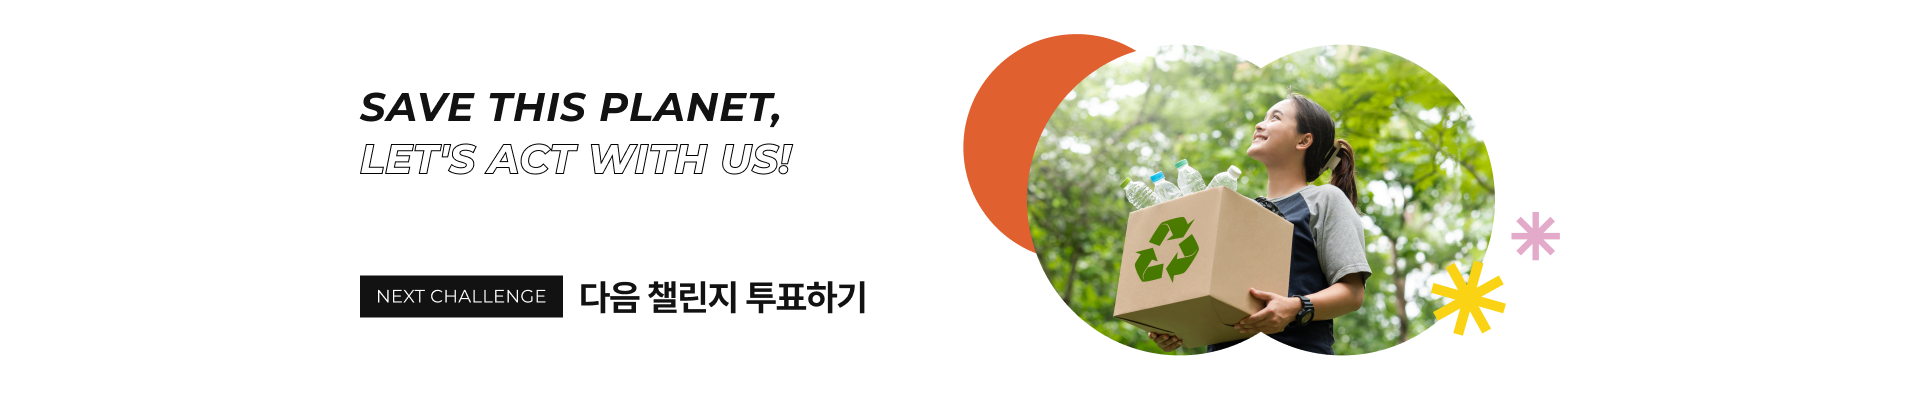
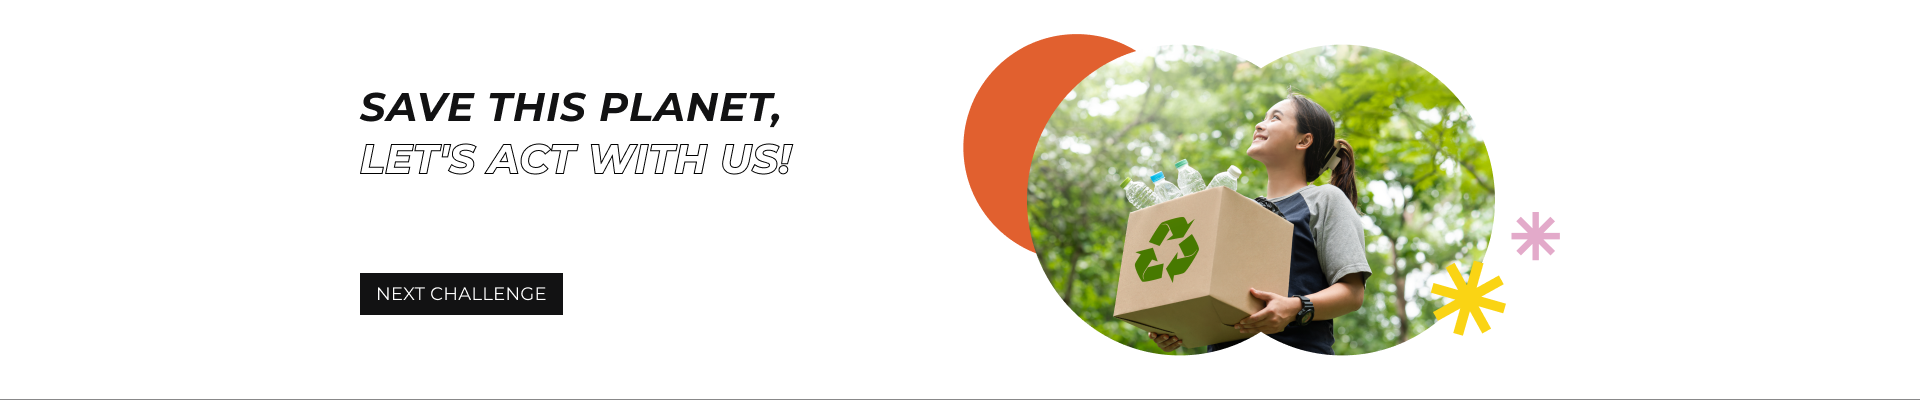
Design:'투표하기' 키워드 '제시하기'로 변경

Changed region(s): [[0.0, 0.99, 1.0, 1.0], [0.1875, 0.69, 0.4688, 0.81], [0.1875, 0.66, 0.2812, 0.69]]

diff --git a/src/components/mainPage/slide/IdeaSlide.tsx b/src/components/mainPage/slide/IdeaSlide.tsx
@@ -28,7 +28,7 @@ export default function IdeaSlide() {
       <p className="text-xl opacity-50 underline underline-offset-4 font-montserrat">Next Challenge</p>
       <div className="flex justify-between">
         <Link href={'/idea'}>
-          <h2 className="mt-4">다음 챌린지 투표하기</h2>
+          <h2 className="mt-4">다음 챌린지 제안하기</h2>
         </Link>
       </div>
       <div className={'mt-10'}>
